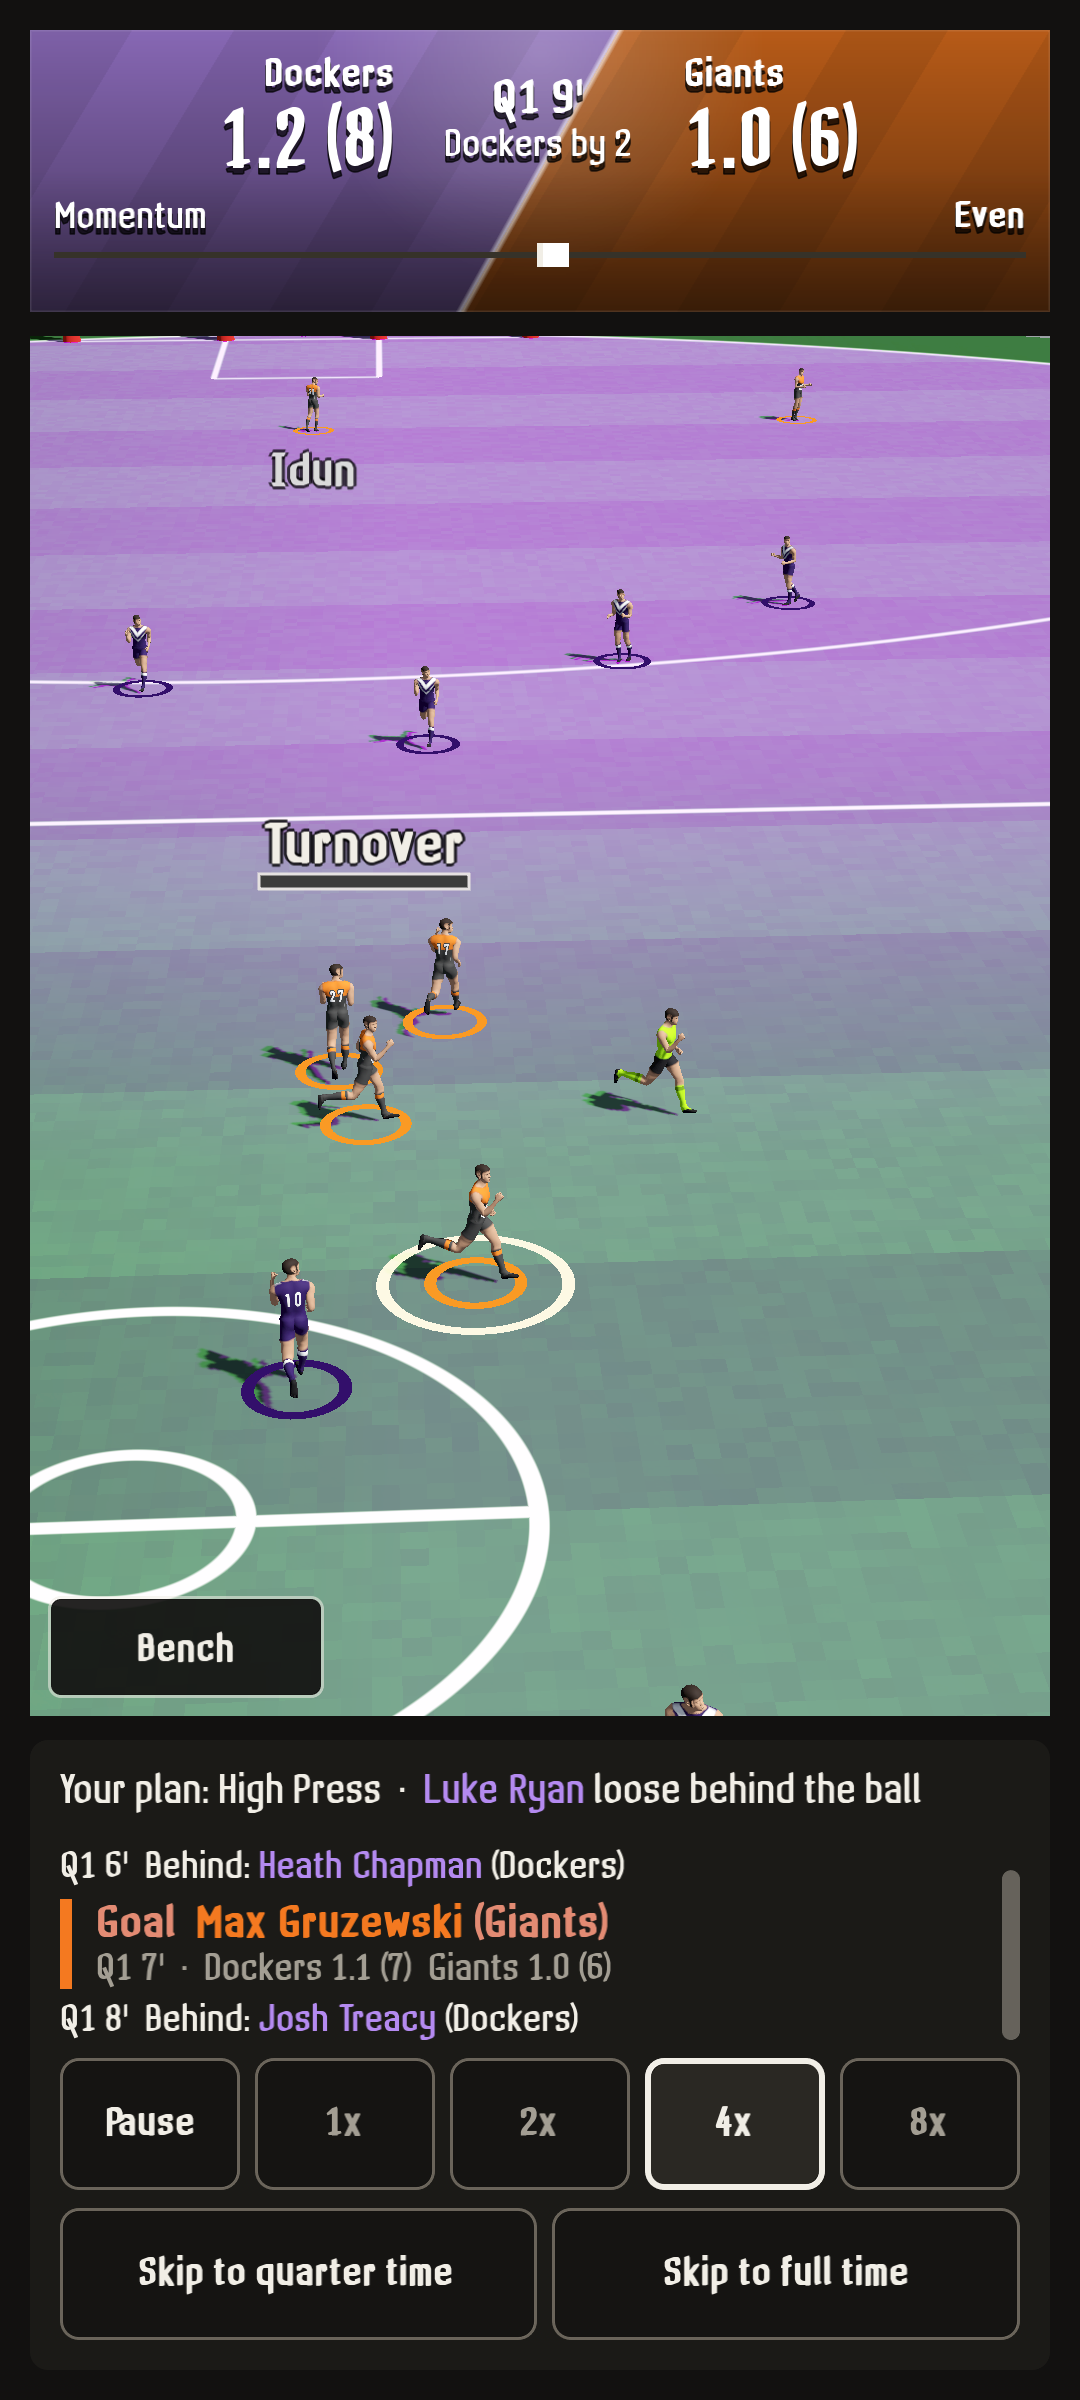
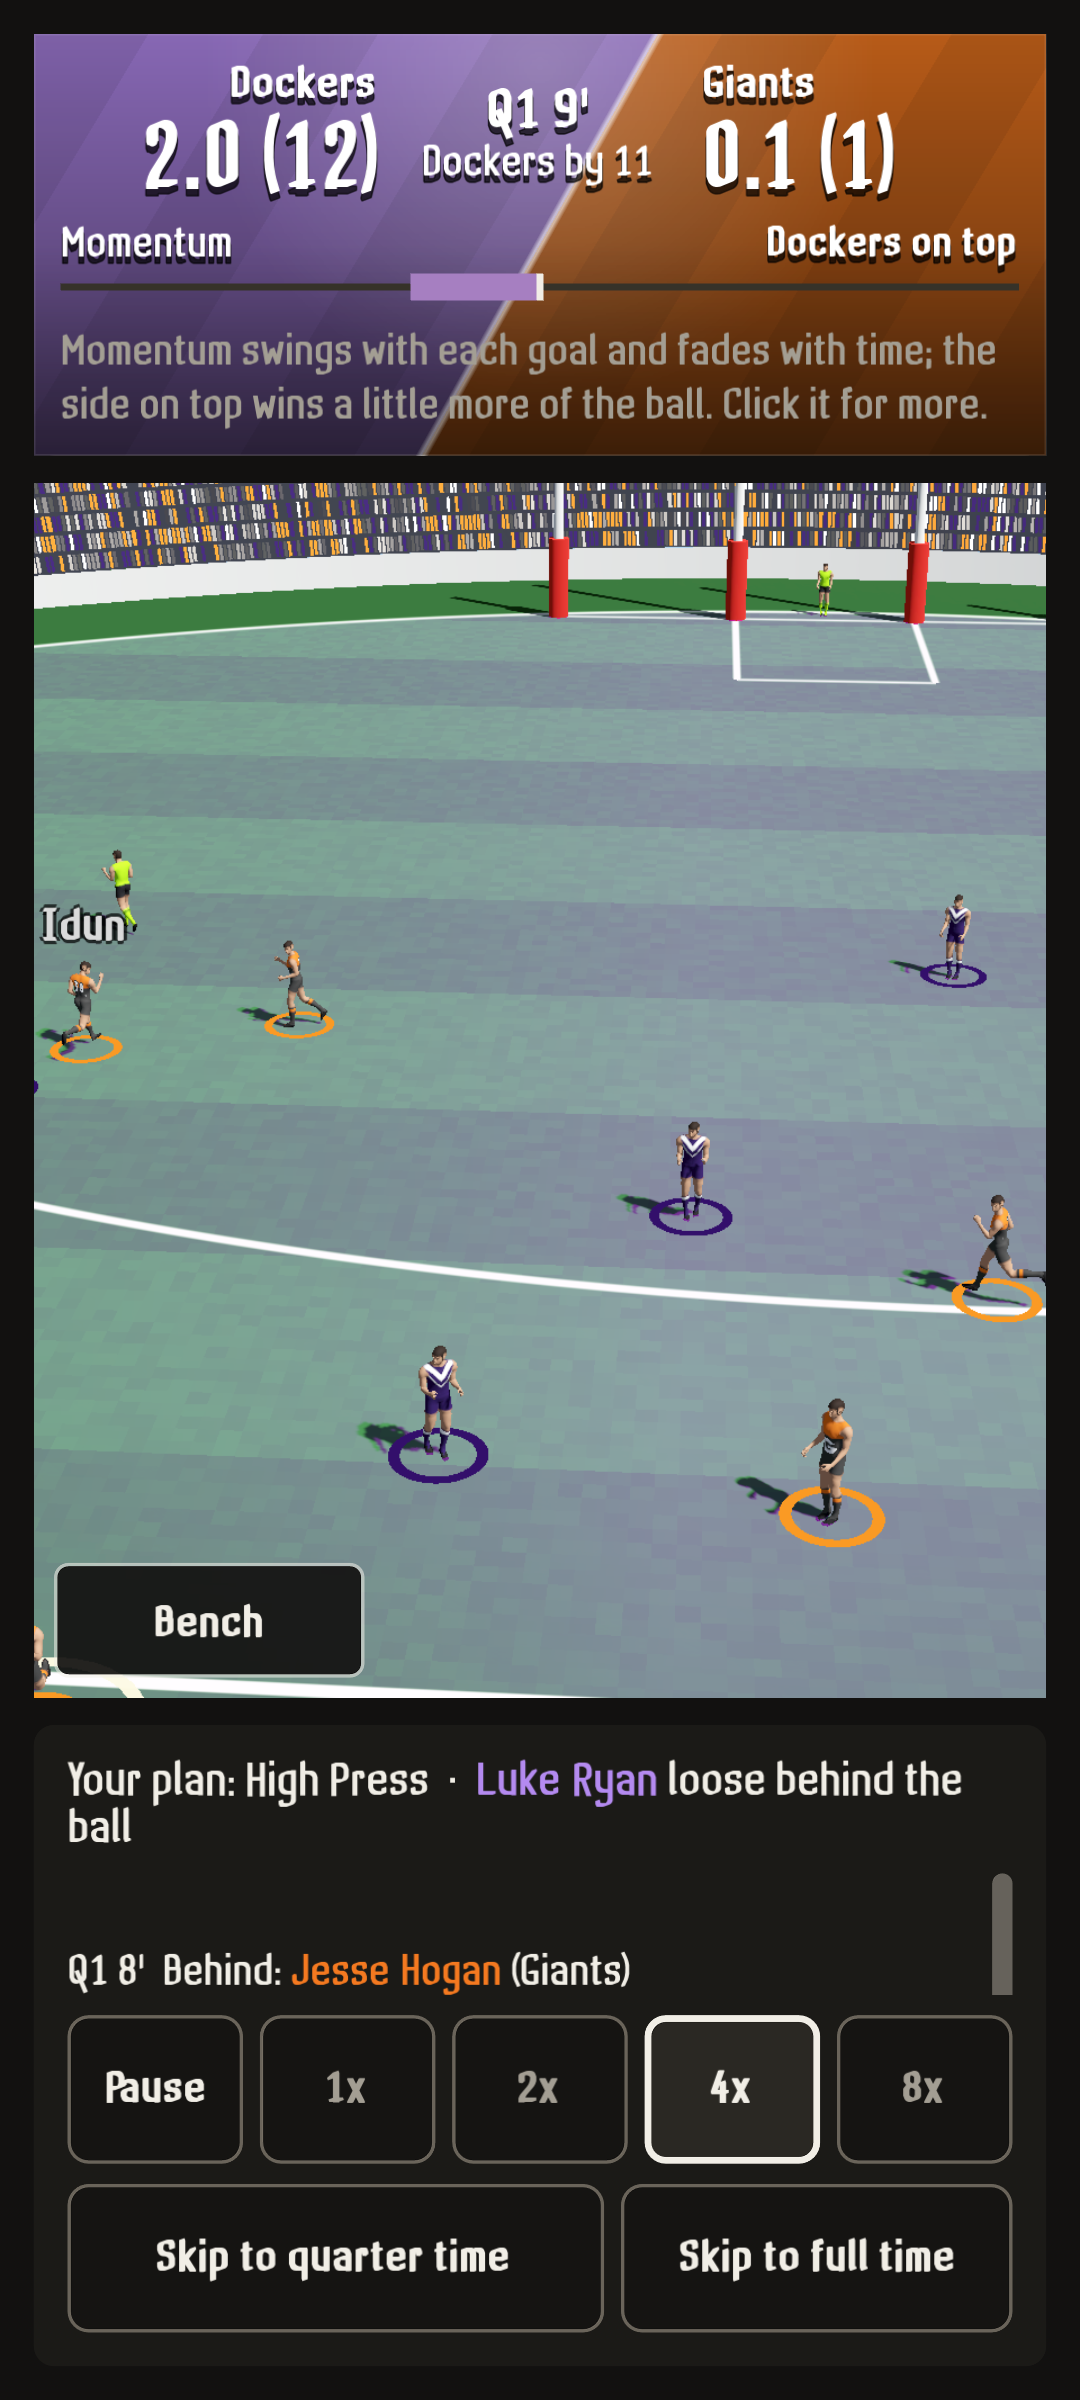
3D oval: press wash at half the flat oval's strength (row 197)
Director 2026-11-15: "Lighten it".

diff --git a/docs/captures/oval3d_overlays/wash_lighter.png.check.md b/docs/captures/oval3d_overlays/wash_lighter.png.check.md
@@ -1,0 +1,15 @@
+# wash_lighter.png self-check (row 197, press wash at half strength in 3D)
+
+## Objects
+- wash strength: PASS - right is half the left's alpha (0.15 vs 0.30); a pixel in the wash went (184,147,214) to (132,158,158)
+- bodies: PASS - every footballer a humanoid shape, limbs whole, none sunk or clipped
+- club rings: PASS - purple and orange rings round each player's feet, untinted
+- wash under bodies: PASS - legs and guernseys untinted by the wash
+- posts: PASS - goal posts stand in front of the wash, red pads clear
+- field lines: PASS - 50 m arc and goal square in place
+- umpires: PASS - lime umpires on the ground, no ring
+- shadows: PASS - each body's shadow falls on the grass beside his feet
+- Bench button: PASS - unchanged
+
+## Seams
+- wash at the boots: PASS - C:/Users/DANTE/AppData/Local/Temp/claude/73a643dc05dd0dd4/df61d6e9-4d13-45d1-829c-b3ac379bb2aa/scratchpad/ov3d/l_1.png (bodies stand on it; faint purple fringe beside some boots remains, seen only at 2.5x)
